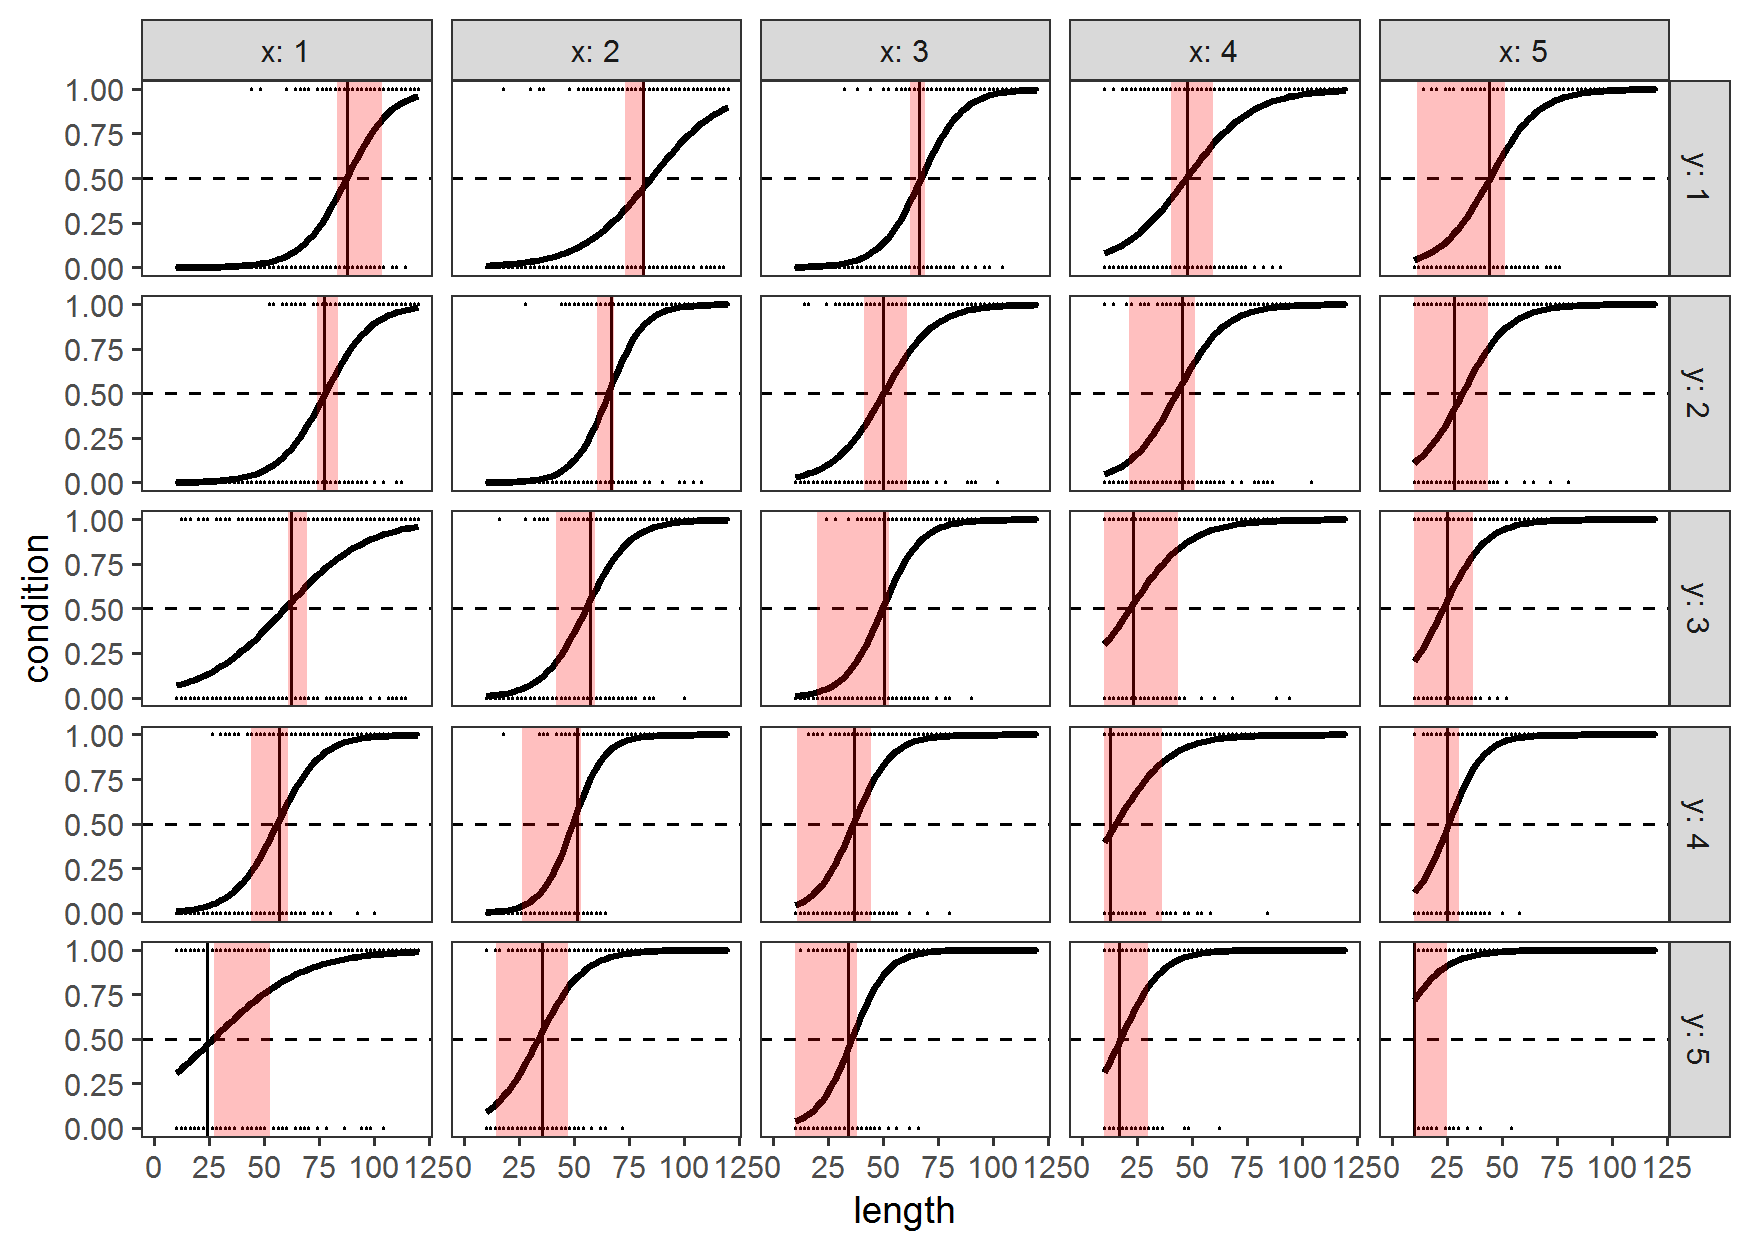
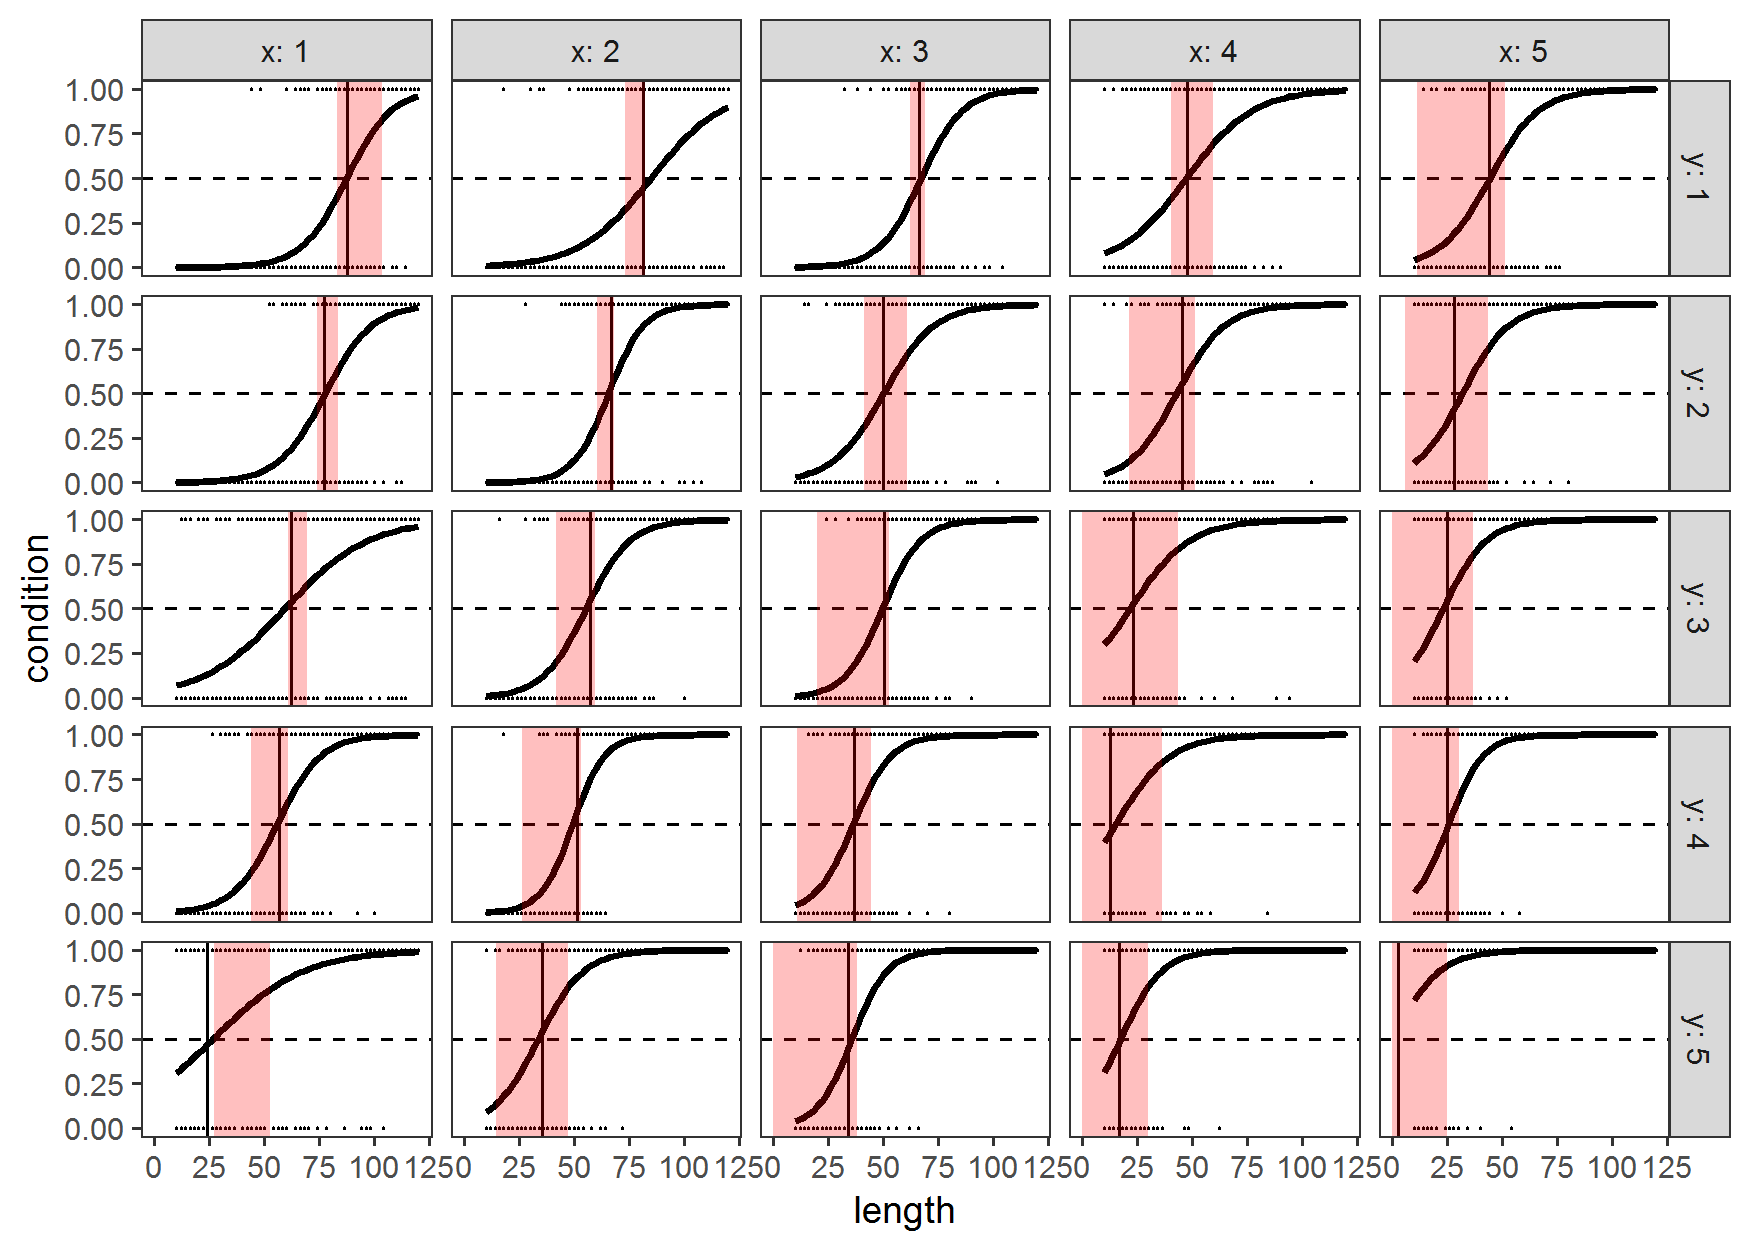
Fixed a bug with how the boundary values were specified in the glmer example

diff --git a/nonlinear_L50_estimation/L50_estimation_for_smooth_curves.md b/nonlinear_L50_estimation/L50_estimation_for_smooth_curves.md
@@ -427,11 +427,11 @@ find_l50_lme4 = function(model) {
   
   #note: since we're using centered length values here, the lower and upper
   #bounds have to be adjusted to take that into account!! Here I'm using ad-hoc
-  #values (I know mean length is 55) but this should be adjusted for your data
+  #values (I know mean length is 65) but this should be adjusted for your data
   #I'm also initializing the parameter at zero (i.e. the mean length)
   L50_fit = optim(par = rep(0, times = nrow(dat_pred)), 
                             get_lme4_link_sqrt,
-                            lower = 0-55, upper = 150-55,
+                            lower = 0-65, upper = 150-65,
                     covar = dat_pred, 
                     model = model,
                   method = "L-BFGS-B")
@@ -510,7 +510,7 @@ glmer_conditional_plot
 
 ![](figures/L50-plotglmer-1.png)
 
-Note that for values like x=5 / y=5, the confidence interval is very small, and clustered at the bottom of the range. This is implying that the model estimates that the true L50 value is likely below the boundary we set. This is because we picked some pretty unrealistic data for the model, but it does highlight what a boundary effect has on this.
+Note that for values like x=5 / y=5, the confidence interval is small, and clustered at the bottom of the range. This is implying that the model estimates that the true L50 value is likely very near the bottom of the boundary we set. This is because we picked some pretty unrealistic data for the model, but it does highlight what a boundary effect has on this.
 
 ### L50 values for glmer models for new sites (sampling new random effects)
 
@@ -567,7 +567,7 @@ glmer_unconditional_plot
 
 ![](figures/L50-glmer_boot_unconditional-1.png)
 
-Note that the big change is that the CIs are substantially wider. Values at the end of the range still have very tight CIs though.
+Note that the big change is that the CIs are substantially wider. Values at the end of the range still have very tight CIs though. Also note that the fitted value is not centered on the CI; this is likely due to the fact that I just used the `t0` statistic for the mean, which is directly drawn from the fitted model (i.e. uses the original random effects to estimate it). Any observeration where the true random effect in the data is large will tend to result in the mean value being toward one side of the CI. Here, we're effectively conditioning on the observed data for the mean, but simulating new random effects for the interval. In an actual data analysis, I would probably use the something like the mean or 50th percentile (median) of the bootstrap replicates as the midpoint; However, this takes long enough to re-run that I'm not going to worry about that for this tutorial.
 
 [1] For more information on using the linear predictor matrix (lpmatrix) to get values from GAMs, see [this blogpost by Gavin Simpson](!https://www.fromthebottomoftheheap.net/2014/06/16/simultaneous-confidence-intervals-for-derivatives/).
 
